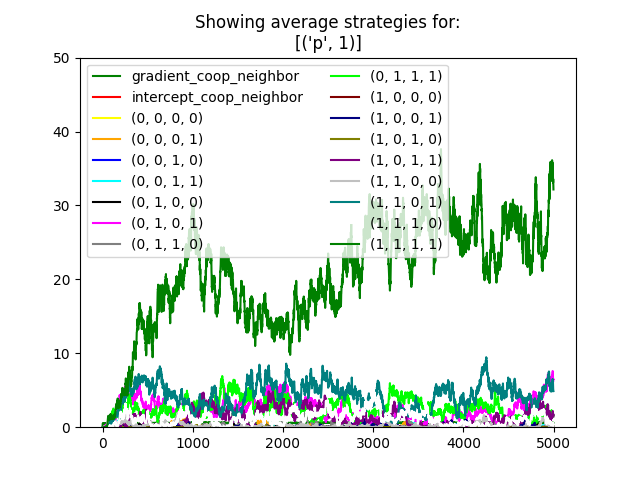
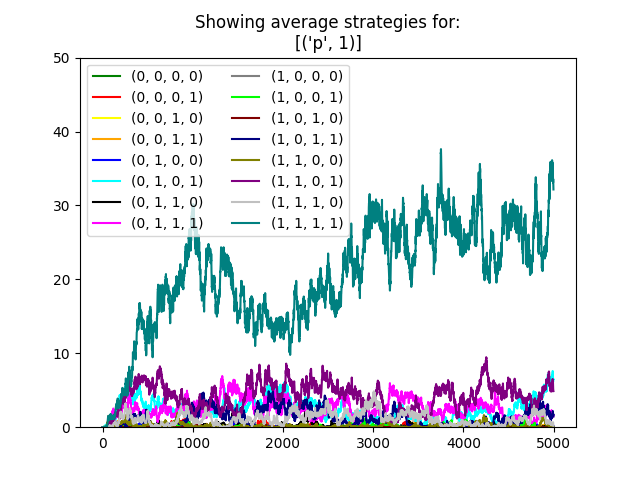
New runs

Changed region(s): [[0.125, 0.125, 0.875, 0.9062], [0.375, 0.2812, 0.4062, 0.3438]]

diff --git a/analysis.py b/analysis.py
@@ -62,6 +62,7 @@ def plot(params, plot_list='strategies', average=True):
                 'perc_cooperative_actions', 'n_agents',
                 'n_friendlier', 'n_aggressive', 'avg_agent_age',
                 'n_neighbors', 'avg_delta_energy',
+                'gradient_coop_neighbor', 'intercept_coop_neighbor',
             ]
         else:
             return column in plot_list
@@ -113,9 +114,10 @@ def plot(params, plot_list='strategies', average=True):
 
 
 if __name__ == '__main__':
-    # run_name = 'BIG_RUN_P'  # noqa
-    columns = ['perc_cooperative_actions']
+    run_name = 'p_sweep_memory'  # noqa
+    # perc_cooperative = ['perc_cooperative_actions']
     params = get_params(run_name)
 
-    plot(params, plot_list=columns)
+    plot(params, plot_list=['gradient_coop_neighbor'])
+    plot(params, plot_list=['intercept_coop_neighbor'])
     plot(params, plot_list='strategies')
